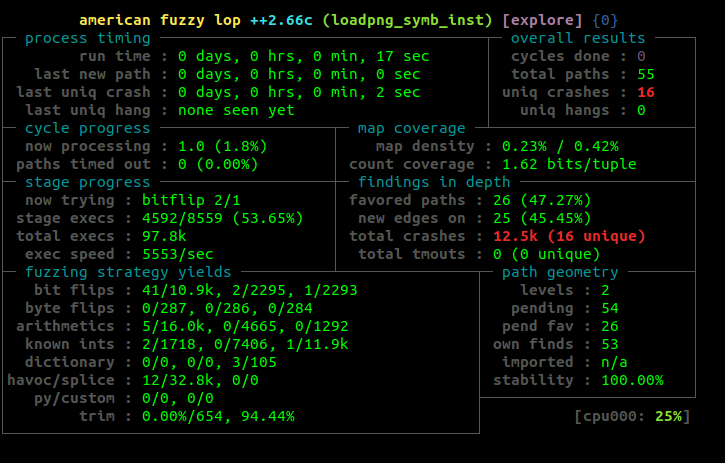
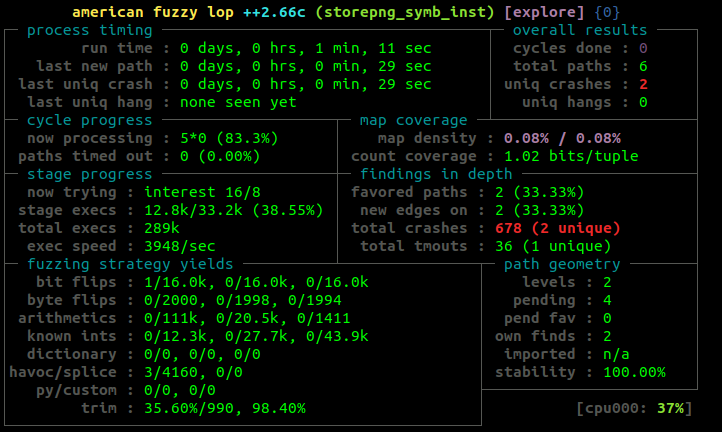
modify 02-symb with storepng

diff --git a/02-coverage_fuzzing/README.md b/02-coverage_fuzzing/README.md
@@ -15,7 +15,7 @@ will find a script that performs the commands from that part, so that you
 do not need to copy and paste commands from the readme. This documentation 
 exists so you can see what is done and why.
 
-## Download and Build AFL++
+## Downstore and Build AFL++
 
 The installation from the 01-native-fuzzing step should be good for this part.
 
@@ -30,23 +30,23 @@ cd playground/bin
 ```
 To generate symbolized assembly you can use the following command:
 ```shell
-retrowrite loadpng loadpng_symb.s
+retrowrite storepng storepng_symb.s
 ```
 You will get an ASCII file containing ASM instruction of the binary.
 Now you will need to recompile a binary with AFL instrumentations.
 
 In order to do that you will need to use afl-gcc command:
 ```shell 
-AFL_AS_FORCE_INSTRUMENT=1 $AFL_PATH/afl-gcc loadpng_symb.s -o loadpng_symb_inst -lz
+AFL_AS_FORCE_INSTRUMENT=1 $AFL_PATH/afl-gcc storepng_symb.s -o storepng_symb_inst -lz
 
 # to verify that the recompilation went good
-./load_symb_inst
+./store_symb_inst
 
 cd ../
 ```
 **Script**: 01-instrument_symb.sh
 
-## Learn how to use AFL++ with loadpng_symb_inst
+## Learn how to use AFL++ with storepng_symb_inst
 
 We are now going to demonstrate a working fuzz project with AFL++. 
 
@@ -82,14 +82,14 @@ Without further ado, let us execute a fuzzing run:
 
 ```
 cd work-symb
-../../aflplusplus/afl-fuzz -i ../inputs/loadpng -o ../fuzz-sym/ -- ../bin/loadpng_symb_inst @@
+../../aflplusplus/afl-fuzz -i ../inputs/storepng -o ../fuzz-sym/ -- ../bin/storepng_symb_inst @@
 ```
 
 The commands to `afl-fuzz` are as follows:
 
- - `-i ../inputs/loadpng` loads the input test cases from the input directory.
+ - `-i ../inputs/storepng` stores the input test cases from the input directory.
  - `-o ../fuzz-sym/` tells afl++ where to store its information.
- - `-- ../bin/loadpng_symb_inst @@` is a bit special. There are three parts to this 
+ - `-- ../bin/storepng_symb_inst @@` is a bit special. There are three parts to this 
    command: `--`, which terminates the argument list, the path to the 
    program to be fuzzed, and `@@`. This is a placeholder which tells AFL++ 
    which argument may be substituted for input by the fuzzer. In other words, 
@@ -125,7 +125,7 @@ particular crash. If we want to actually look at the crash, we can do this:
 
 ```shell
 cd playground
-gdb bin/loadpng_symb_inst
+gdb bin/storepng_symb_inst
 run fuzz-sym/crashes/...
 ```
 
